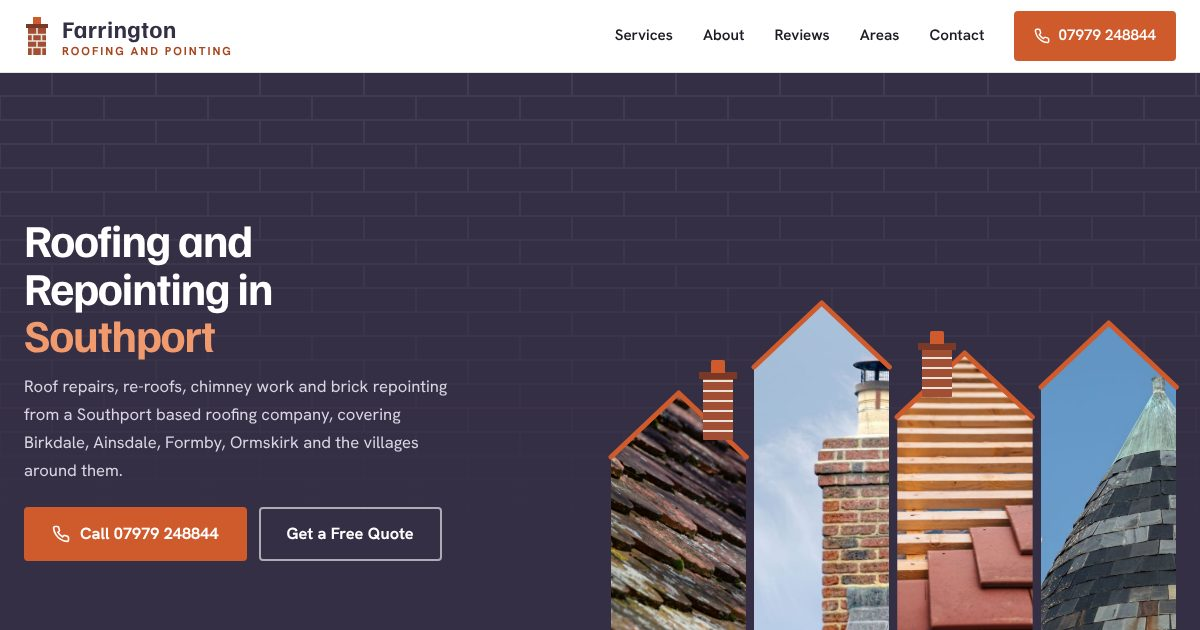
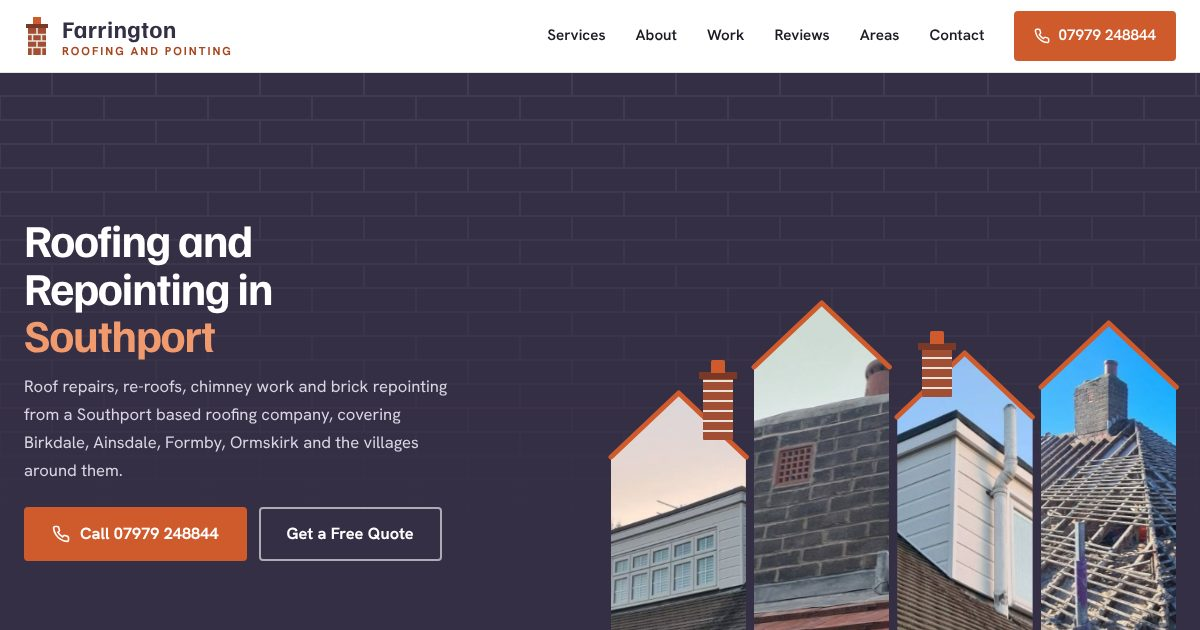
Farrington Roofing and Pointing: their own photos on A and B
Desk revision: their seven photos replace the stock in the hero, service cards and about panel on both mockups, a recent work gallery added with plain captions, the flat roof card becomes Dormers and Flat Roofs to match their dormer photos, unused stock removed.

Changed region(s): [[0.4933, 0.4825, 0.9867, 1.0], [0.4625, 0.0302, 0.555, 0.0603], [0.5858, 0.0302, 0.6167, 0.0603]]

diff --git a/farrington-roofing-pointing/index.html b/farrington-roofing-pointing/index.html
@@ -170,9 +170,19 @@ section{position:relative}
 .about h2 .acc{color:var(--clay-lt)}
 .about p{font-size:1.07rem;max-width:54ch}
 .about .btn{margin-top:28px}
-.about-ph{position:relative;aspect-ratio:3/2}
+.about-ph{position:relative;aspect-ratio:4/3;max-width:520px}
 .about-ph{--rf:22%}
 .about-ph .g-ph img{animation:none}
+
+/* gallery: their own work */
+.gal-grid{display:grid;grid-template-columns:repeat(4,1fr);gap:20px}
+.gal-grid figure{margin:0}
+.gal-ph{aspect-ratio:4/5;overflow:hidden;border-radius:6px;background:var(--stone)}
+.gal-ph img{width:100%;height:100%;object-fit:cover;transition:transform .6s ease}
+.gal-grid figure:hover .gal-ph img{transform:scale(1.04)}
+.gal-grid figcaption{margin-top:10px;font-size:.94rem;color:var(--body);line-height:1.45}
+@media (max-width:1100px){.gal-grid{grid-template-columns:repeat(3,1fr)}}
+@media (max-width:880px){.gal-grid{grid-template-columns:1fr 1fr;gap:14px}.gal-grid figcaption{font-size:.88rem}}
 
 /* areas */
 .areas-in{display:grid;grid-template-columns:.85fr 1.15fr;gap:56px;align-items:start}
@@ -320,7 +330,7 @@ footer a:hover{color:#fff}
     <nav class="nav-links" aria-label="Main">
       <a href="#services">Services</a>
       <a href="#about">About</a>
-      <a href="#reviews">Reviews</a>
+      <a href="#work">Work</a> <a href="#reviews">Reviews</a>
       <a href="#areas">Areas</a>
       <a href="#contact">Contact</a>
       <a href="#contact" class="nav-cta js-call"><svg viewBox="0 0 24 24" fill="none" stroke="currentColor" stroke-width="2.2" width="16" height="16"><path d="M22 16.9v3a2 2 0 0 1-2.2 2 19.8 19.8 0 0 1-8.6-3.1 19.5 19.5 0 0 1-6-6A19.8 19.8 0 0 1 2.1 4.2 2 2 0 0 1 4.1 2h3a2 2 0 0 1 2 1.7c.1.9.4 1.8.7 2.7a2 2 0 0 1-.5 2.1L8 9.8a16 16 0 0 0 6 6l1.3-1.3a2 2 0 0 1 2.1-.4c.9.3 1.8.6 2.7.7a2 2 0 0 1 1.7 2z"/></svg><span>Call us</span></a>
@@ -331,7 +341,7 @@ footer a:hover{color:#fff}
 <div class="mpanel" id="mpanel">
   <a href="#services">Services</a>
   <a href="#about">About</a>
-  <a href="#reviews">Reviews</a>
+  <a href="#work">Work</a> <a href="#reviews">Reviews</a>
   <a href="#areas">Areas</a>
   <a href="#contact">Contact</a>
   <a href="#contact" class="btn btn-clay js-call"><svg viewBox="0 0 24 24" fill="none" stroke="currentColor" stroke-width="2.2" width="18" height="18"><path d="M22 16.9v3a2 2 0 0 1-2.2 2 19.8 19.8 0 0 1-8.6-3.1 19.5 19.5 0 0 1-6-6A19.8 19.8 0 0 1 2.1 4.2 2 2 0 0 1 4.1 2h3a2 2 0 0 1 2 1.7c.1.9.4 1.8.7 2.7a2 2 0 0 1-.5 2.1L8 9.8a16 16 0 0 0 6 6l1.3-1.3a2 2 0 0 1 2.1-.4c.9.3 1.8.6 2.7.7a2 2 0 0 1 1.7 2z"/></svg><span>Call us</span></a>
@@ -349,10 +359,10 @@ footer a:hover{color:#fff}
       </div>
     </div>
     <div class="terrace" aria-hidden="true">
-      <div class="gable" style="--h:310px;--d:.05s"><div class="stack"></div><div class="g-ph"><img src="svc-repairs.jpg" alt="" width="1100" height="1650"></div><svg class="g-ridge" viewBox="0 0 100 100" preserveAspectRatio="none"><path pathLength="1" d="M0 100 L50 0 L100 100"/></svg></div>
-      <div class="gable" style="--h:400px;--d:.17s"><div class="g-ph"><img src="hero.jpg" alt="" width="1400" height="933" fetchpriority="high"></div><svg class="g-ridge" viewBox="0 0 100 100" preserveAspectRatio="none"><path pathLength="1" d="M0 100 L50 0 L100 100"/></svg></div>
-      <div class="gable" style="--h:350px;--d:.29s"><div class="stack s2"></div><div class="g-ph"><img src="svc-reroof.jpg" alt="" width="1100" height="1650"></div><svg class="g-ridge" viewBox="0 0 100 100" preserveAspectRatio="none"><path pathLength="1" d="M0 100 L50 0 L100 100"/></svg></div>
-      <div class="gable" style="--h:380px;--d:.41s"><div class="g-ph"><img src="gable-slate.jpg" alt="" width="1100" height="733"></div><svg class="g-ridge" viewBox="0 0 100 100" preserveAspectRatio="none"><path pathLength="1" d="M0 100 L50 0 L100 100"/></svg></div>
+      <div class="gable" style="--h:310px;--d:.05s"><div class="stack"></div><div class="g-ph"><img src="own-dorma3.jpg" alt="" width="398" height="442"></div><svg class="g-ridge" viewBox="0 0 100 100" preserveAspectRatio="none"><path pathLength="1" d="M0 100 L50 0 L100 100"/></svg></div>
+      <div class="gable" style="--h:400px;--d:.17s"><div class="g-ph"><img src="own-roof3.jpg" alt="" width="408" height="471" fetchpriority="high"></div><svg class="g-ridge" viewBox="0 0 100 100" preserveAspectRatio="none"><path pathLength="1" d="M0 100 L50 0 L100 100"/></svg></div>
+      <div class="gable" style="--h:350px;--d:.29s"><div class="stack s2"></div><div class="g-ph"><img src="own-dorma4.jpg" alt="" width="402" height="467"></div><svg class="g-ridge" viewBox="0 0 100 100" preserveAspectRatio="none"><path pathLength="1" d="M0 100 L50 0 L100 100"/></svg></div>
+      <div class="gable" style="--h:380px;--d:.41s"><div class="g-ph"><img src="own-roof1.jpg" alt="" width="338" height="520"></div><svg class="g-ridge" viewBox="0 0 100 100" preserveAspectRatio="none"><path pathLength="1" d="M0 100 L50 0 L100 100"/></svg></div>
     </div>
   </div>
 </section>
@@ -373,23 +383,39 @@ footer a:hover{color:#fff}
     <span class="mrule reveal" aria-hidden="true"></span>
     <div class="svc-grid">
       <article class="svc reveal"><div class="svc-img"><img src="svc-repairs.jpg" alt="Weathered slates on an older roof" loading="lazy" width="1100" height="1650"></div><div class="svc-body"><h3>Roof Repairs</h3><p>Slipped slates, cracked tiles and leaks traced and fixed.</p></div></article>
-      <article class="svc reveal"><div class="svc-img"><img src="svc-reroof.jpg" alt="New clay tiles being laid on timber battens" loading="lazy" width="1100" height="1650"></div><div class="svc-body"><h3>Re-roofs</h3><p>Stripped back, new membrane and battens, slate or tile.</p></div></article>
+      <article class="svc reveal"><div class="svc-img"><img src="own-roof2.jpg" alt="Red tiled roof finished above a brick house" loading="lazy" width="412" height="498"></div><div class="svc-body"><h3>Re-roofs</h3><p>Stripped back, new membrane and battens, slate or tile.</p></div></article>
       <article class="svc reveal"><div class="svc-img"><img src="svc-pointing.jpg" alt="Trowel pressing fresh mortar into raked brick joints" loading="lazy" width="549" height="364"></div><div class="svc-body"><h3>Brick Repointing</h3><p>Old joints raked out, fresh mortar matched to the brick.</p></div></article>
-      <article class="svc reveal"><div class="svc-img"><img src="svc-chimney.jpg" alt="Brick chimney stack on a slate roof" loading="lazy" width="1100" height="1649"></div><div class="svc-body"><h3>Chimney Repairs</h3><p>Stacks repointed or rebuilt, flaunching, pots and flashing renewed.</p></div></article>
-      <article class="svc reveal"><div class="svc-img"><img src="svc-flat.jpg" alt="House extension with a flat roof and dark fascia" loading="lazy" width="1200" height="797"></div><div class="svc-body"><h3>Flat Roofing</h3><p>Extensions, garages and dormers, felt, rubber or fibreglass.</p></div></article>
-      <article class="svc reveal"><div class="svc-img"><img src="svc-gutter.jpg" alt="White gutter end with water dripping" loading="lazy" width="1100" height="1654"></div><div class="svc-body"><h3>Gutters and Fascias</h3><p>Gutters cleared, realigned or replaced, fascias and soffits fitted.</p></div></article>
+      <article class="svc reveal"><div class="svc-img"><img src="own-roof3.jpg" alt="Brick chimney stack with lead flashing on a tiled roof" loading="lazy" width="408" height="471"></div><div class="svc-body"><h3>Chimney Repairs</h3><p>Stacks repointed or rebuilt, flaunching, pots and flashing renewed.</p></div></article>
+      <article class="svc reveal"><div class="svc-img"><img src="own-dorma3.jpg" alt="White clad dormer on a tiled roof" loading="lazy" width="398" height="442"></div><div class="svc-body"><h3>Dormers and Flat Roofs</h3><p>Dormers clad and roofed, flat roofs in felt, rubber or fibreglass.</p></div></article>
+      <article class="svc reveal"><div class="svc-img"><img src="own-dorma4.jpg" alt="Dormer with gutter and white downpipe" loading="lazy" width="402" height="467"></div><div class="svc-body"><h3>Gutters and Fascias</h3><p>Gutters cleared, realigned or replaced, fascias and soffits fitted.</p></div></article>
     </div>
   </div>
 </section>
 
 <section class="sec about" id="about">
   <div class="wrap about-in">
-    <div class="about-ph reveal" aria-hidden="true"><div class="g-ph"><img src="gable-slate.jpg" alt="" loading="lazy" width="1100" height="733"></div></div>
+    <div class="about-ph reveal" aria-hidden="true"><div class="g-ph"><img src="own-dorma1.jpg" alt="" loading="lazy" width="408" height="557"></div></div>
     <div class="reveal">
       <h2>About <span class="acc">Farrington</span></h2>
       <span class="mrule" aria-hidden="true"></span>
       <p>Farrington Roofing and Pointing Services is a Southport company working on the roofs and brickwork of homes across the town and the villages around it. Slipped slates, leaking flat roofs, tired chimney stacks, crumbling pointing and full re-roofs, each one priced after a visit and explained in plain terms.</p>
       <a href="#contact" class="btn btn-clay js-call"><svg viewBox="0 0 24 24" fill="none" stroke="currentColor" stroke-width="2.2" width="18" height="18"><path d="M22 16.9v3a2 2 0 0 1-2.2 2 19.8 19.8 0 0 1-8.6-3.1 19.5 19.5 0 0 1-6-6A19.8 19.8 0 0 1 2.1 4.2 2 2 0 0 1 4.1 2h3a2 2 0 0 1 2 1.7c.1.9.4 1.8.7 2.7a2 2 0 0 1-.5 2.1L8 9.8a16 16 0 0 0 6 6l1.3-1.3a2 2 0 0 1 2.1-.4c.9.3 1.8.6 2.7.7a2 2 0 0 1 1.7 2z"/></svg><span>Call us</span></a>
+    </div>
+  </div>
+</section>
+
+<section class="sec gallery" id="work">
+  <div class="wrap">
+    <h2 class="reveal">Recent <span class="acc">work</span></h2>
+    <span class="mrule reveal" aria-hidden="true"></span>
+    <div class="gal-grid">
+      <figure class="reveal"><div class="gal-ph"><img src="own-roof1.jpg" alt="Hipped roof stripped back to the rafters with two chimney stacks" loading="lazy" width="338" height="520"></div><figcaption>Hipped roof stripped back, old tiles off</figcaption></figure>
+      <figure class="reveal"><div class="gal-ph"><img src="own-roof2.jpg" alt="Red tiled roof finished above a brick house with scaffold still up" loading="lazy" width="412" height="498"></div><figcaption>Red tiled roof finished, scaffold still up</figcaption></figure>
+      <figure class="reveal"><div class="gal-ph"><img src="own-roof3.jpg" alt="Brick chimney stack with lead flashing on a red tiled roof" loading="lazy" width="408" height="471"></div><figcaption>Chimney stack with lead flashing</figcaption></figure>
+      <figure class="reveal"><div class="gal-ph"><img src="own-dorma2.jpg" alt="Dormer cheek wrapped in black membrane beside a tiled roof" loading="lazy" width="372" height="572"></div><figcaption>Dormer cheek wrapped in membrane</figcaption></figure>
+      <figure class="reveal"><div class="gal-ph"><img src="own-dorma1.jpg" alt="Dormer with dark timber cladding and white windows seen from the scaffold" loading="lazy" width="408" height="557"></div><figcaption>Dormer with dark cladding and white windows</figcaption></figure>
+      <figure class="reveal"><div class="gal-ph"><img src="own-dorma3.jpg" alt="White clad dormer with a long window on a tiled roof at dusk" loading="lazy" width="398" height="442"></div><figcaption>White clad dormer on a tiled roof</figcaption></figure>
+      <figure class="reveal"><div class="gal-ph"><img src="own-dorma4.jpg" alt="White clad dormer with a gutter and downpipe" loading="lazy" width="402" height="467"></div><figcaption>White clad dormer, gutter and downpipe</figcaption></figure>
     </div>
   </div>
 </section>

diff --git a/farrington-roofing-pointing-b/index.html b/farrington-roofing-pointing-b/index.html
@@ -109,8 +109,11 @@ section{position:relative}
 /* hero B: full bleed ken burns */
 .hero{position:relative;display:flex;flex-direction:column;justify-content:flex-end;min-height:calc(100svh - var(--nav-h));max-height:900px;background:var(--slate);overflow:hidden;color:#fff}
 .hb-img{position:absolute;inset:0;overflow:hidden}
-.hb-img img{width:100%;height:100%;object-fit:cover;object-position:50% 40%;transform-origin:60% 40%;animation:kbB 22s ease-in-out infinite alternate}
-@keyframes kbB{from{transform:scale(1.04) translate(0,0)}to{transform:scale(1.12) translate(-2%,1.5%)}}
+.hb-img{display:flex}
+.hb-img img{flex:1 1 0;min-width:0;width:100%;height:100%;object-fit:cover;object-position:50% 40%;transform-origin:50% 40%;animation:kbB 22s ease-in-out infinite alternate}
+.hb-img img:nth-child(2){animation-delay:-6s}.hb-img img:nth-child(3){animation-delay:-11s}.hb-img img:nth-child(4){animation-delay:-16s}
+@media (max-width:880px){.hb-img img:not(:first-child){display:none}}
+@keyframes kbB{from{transform:scale(1.02) translate(0,0)}to{transform:scale(1.1) translate(-2%,1.5%)}}
 .hb-shade{position:absolute;inset:0;background:linear-gradient(180deg,rgba(53,47,69,.15) 0%,rgba(53,47,69,.2) 30%,rgba(43,38,57,.82) 62%,rgba(35,31,46,.96) 100%)}
 .hb-in{position:relative;width:100%;padding-top:120px;padding-bottom:96px}
 .hero h1{color:#fff;font-size:clamp(3rem,7vw,6.4rem);max-width:11ch;line-height:.98;letter-spacing:-.035em}
@@ -189,9 +192,19 @@ section{position:relative}
 .about h2 .acc{color:var(--clay-lt)}
 .about p{font-size:1.07rem;max-width:54ch}
 .about .btn{margin-top:28px}
-.about-ph{position:relative;aspect-ratio:3/2}
+.about-ph{position:relative;aspect-ratio:4/3;max-width:520px}
 .about-ph{--rf:22%}
 .about-ph .g-ph img{animation:none}
+
+/* gallery: their own work */
+.gal-grid{display:grid;grid-template-columns:repeat(4,1fr);gap:20px}
+.gal-grid figure{margin:0}
+.gal-ph{aspect-ratio:4/5;overflow:hidden;border-radius:6px;background:var(--stone)}
+.gal-ph img{width:100%;height:100%;object-fit:cover;transition:transform .6s ease}
+.gal-grid figure:hover .gal-ph img{transform:scale(1.04)}
+.gal-grid figcaption{margin-top:10px;font-size:.94rem;color:var(--body);line-height:1.45}
+@media (max-width:1100px){.gal-grid{grid-template-columns:repeat(3,1fr)}}
+@media (max-width:880px){.gal-grid{grid-template-columns:1fr 1fr;gap:14px}.gal-grid figcaption{font-size:.88rem}}
 
 /* areas */
 .areas-in{display:grid;grid-template-columns:.85fr 1.15fr;gap:56px;align-items:start}
@@ -335,7 +348,7 @@ footer a:hover{color:#fff}
     <nav class="nav-links" aria-label="Main">
       <a href="#services">Services</a>
       <a href="#about">About</a>
-      <a href="#reviews">Reviews</a>
+      <a href="#work">Work</a> <a href="#reviews">Reviews</a>
       <a href="#areas">Areas</a>
       <a href="#contact">Contact</a>
       <a href="#contact" class="nav-cta js-call"><svg viewBox="0 0 24 24" fill="none" stroke="currentColor" stroke-width="2.2" width="16" height="16"><path d="M22 16.9v3a2 2 0 0 1-2.2 2 19.8 19.8 0 0 1-8.6-3.1 19.5 19.5 0 0 1-6-6A19.8 19.8 0 0 1 2.1 4.2 2 2 0 0 1 4.1 2h3a2 2 0 0 1 2 1.7c.1.9.4 1.8.7 2.7a2 2 0 0 1-.5 2.1L8 9.8a16 16 0 0 0 6 6l1.3-1.3a2 2 0 0 1 2.1-.4c.9.3 1.8.6 2.7.7a2 2 0 0 1 1.7 2z"/></svg><span>Call us</span></a>
@@ -346,7 +359,7 @@ footer a:hover{color:#fff}
 <div class="mpanel" id="mpanel">
   <a href="#services">Services</a>
   <a href="#about">About</a>
-  <a href="#reviews">Reviews</a>
+  <a href="#work">Work</a> <a href="#reviews">Reviews</a>
   <a href="#areas">Areas</a>
   <a href="#contact">Contact</a>
   <a href="#contact" class="btn btn-clay js-call"><svg viewBox="0 0 24 24" fill="none" stroke="currentColor" stroke-width="2.2" width="18" height="18"><path d="M22 16.9v3a2 2 0 0 1-2.2 2 19.8 19.8 0 0 1-8.6-3.1 19.5 19.5 0 0 1-6-6A19.8 19.8 0 0 1 2.1 4.2 2 2 0 0 1 4.1 2h3a2 2 0 0 1 2 1.7c.1.9.4 1.8.7 2.7a2 2 0 0 1-.5 2.1L8 9.8a16 16 0 0 0 6 6l1.3-1.3a2 2 0 0 1 2.1-.4c.9.3 1.8.6 2.7.7a2 2 0 0 1 1.7 2z"/></svg><span>Call us</span></a>
@@ -354,7 +367,7 @@ footer a:hover{color:#fff}
 
 <main id="top">
 <section class="hero" id="hero">
-  <div class="hb-img"><img src="hero.jpg" alt="Two brick chimney stacks on a slate roof against a blue sky" width="1400" height="933" fetchpriority="high"></div>
+  <div class="hb-img"><img src="own-roof3.jpg" alt="Brick chimney stack with lead flashing on a red tiled roof" width="408" height="471" fetchpriority="high"><img src="own-dorma3.jpg" alt="" width="398" height="442"><img src="own-roof1.jpg" alt="" width="338" height="520"><img src="own-dorma4.jpg" alt="" width="402" height="467"></div>
   <div class="hb-shade"></div>
   <div class="wrap hb-in">
     <h1 id="hH1">Roofing and Repointing in <span class="acc">Southport</span></h1>
@@ -430,11 +443,11 @@ footer a:hover{color:#fff}
     <span class="mrule reveal" aria-hidden="true"></span>
     <div class="svc-grid">
       <article class="svc reveal"><div class="svc-img"><img src="svc-repairs.jpg" alt="Weathered slates on an older roof" loading="lazy" width="1100" height="1650"></div><div class="svc-body"><h3>Roof Repairs</h3><p>Slipped slates, cracked tiles and leaks traced and fixed.</p></div></article>
-      <article class="svc reveal"><div class="svc-img"><img src="svc-reroof.jpg" alt="New clay tiles being laid on timber battens" loading="lazy" width="1100" height="1650"></div><div class="svc-body"><h3>Re-roofs</h3><p>Stripped back, new membrane and battens, slate or tile.</p></div></article>
+      <article class="svc reveal"><div class="svc-img"><img src="own-roof2.jpg" alt="Red tiled roof finished above a brick house" loading="lazy" width="412" height="498"></div><div class="svc-body"><h3>Re-roofs</h3><p>Stripped back, new membrane and battens, slate or tile.</p></div></article>
       <article class="svc reveal"><div class="svc-img"><img src="svc-pointing.jpg" alt="Trowel pressing fresh mortar into raked brick joints" loading="lazy" width="549" height="364"></div><div class="svc-body"><h3>Brick Repointing</h3><p>Old joints raked out, fresh mortar matched to the brick.</p></div></article>
-      <article class="svc reveal"><div class="svc-img"><img src="svc-chimney.jpg" alt="Brick chimney stack on a slate roof" loading="lazy" width="1100" height="1649"></div><div class="svc-body"><h3>Chimney Repairs</h3><p>Stacks repointed or rebuilt, flaunching, pots and flashing renewed.</p></div></article>
-      <article class="svc reveal"><div class="svc-img"><img src="svc-flat.jpg" alt="House extension with a flat roof and dark fascia" loading="lazy" width="1200" height="797"></div><div class="svc-body"><h3>Flat Roofing</h3><p>Extensions, garages and dormers, felt, rubber or fibreglass.</p></div></article>
-      <article class="svc reveal"><div class="svc-img"><img src="svc-gutter.jpg" alt="White gutter end with water dripping" loading="lazy" width="1100" height="1654"></div><div class="svc-body"><h3>Gutters and Fascias</h3><p>Gutters cleared, realigned or replaced, fascias and soffits fitted.</p></div></article>
+      <article class="svc reveal"><div class="svc-img"><img src="own-roof3.jpg" alt="Brick chimney stack with lead flashing on a tiled roof" loading="lazy" width="408" height="471"></div><div class="svc-body"><h3>Chimney Repairs</h3><p>Stacks repointed or rebuilt, flaunching, pots and flashing renewed.</p></div></article>
+      <article class="svc reveal"><div class="svc-img"><img src="own-dorma3.jpg" alt="White clad dormer on a tiled roof" loading="lazy" width="398" height="442"></div><div class="svc-body"><h3>Dormers and Flat Roofs</h3><p>Dormers clad and roofed, flat roofs in felt, rubber or fibreglass.</p></div></article>
+      <article class="svc reveal"><div class="svc-img"><img src="own-dorma4.jpg" alt="Dormer with gutter and white downpipe" loading="lazy" width="402" height="467"></div><div class="svc-body"><h3>Gutters and Fascias</h3><p>Gutters cleared, realigned or replaced, fascias and soffits fitted.</p></div></article>
     </div>
   </div>
 </section>
@@ -463,12 +476,28 @@ footer a:hover{color:#fff}
 
 <section class="sec about" id="about">
   <div class="wrap about-in">
-    <div class="about-ph reveal" aria-hidden="true"><div class="g-ph"><img src="gable-slate.jpg" alt="" loading="lazy" width="1100" height="733"></div></div>
+    <div class="about-ph reveal" aria-hidden="true"><div class="g-ph"><img src="own-dorma1.jpg" alt="" loading="lazy" width="408" height="557"></div></div>
     <div class="reveal">
       <h2>About <span class="acc">Farrington</span></h2>
       <span class="mrule" aria-hidden="true"></span>
       <p>Farrington Roofing and Pointing Services is a Southport company working on the roofs and brickwork of homes across the town and the villages around it. Slipped slates, leaking flat roofs, tired chimney stacks, crumbling pointing and full re-roofs, each one priced after a visit and explained in plain terms.</p>
       <a href="#contact" class="btn btn-clay js-call"><svg viewBox="0 0 24 24" fill="none" stroke="currentColor" stroke-width="2.2" width="18" height="18"><path d="M22 16.9v3a2 2 0 0 1-2.2 2 19.8 19.8 0 0 1-8.6-3.1 19.5 19.5 0 0 1-6-6A19.8 19.8 0 0 1 2.1 4.2 2 2 0 0 1 4.1 2h3a2 2 0 0 1 2 1.7c.1.9.4 1.8.7 2.7a2 2 0 0 1-.5 2.1L8 9.8a16 16 0 0 0 6 6l1.3-1.3a2 2 0 0 1 2.1-.4c.9.3 1.8.6 2.7.7a2 2 0 0 1 1.7 2z"/></svg><span>Call us</span></a>
+    </div>
+  </div>
+</section>
+
+<section class="sec gallery" id="work">
+  <div class="wrap">
+    <h2 class="reveal">Recent <span class="acc">work</span></h2>
+    <span class="mrule reveal" aria-hidden="true"></span>
+    <div class="gal-grid">
+      <figure class="reveal"><div class="gal-ph"><img src="own-roof1.jpg" alt="Hipped roof stripped back to the rafters with two chimney stacks" loading="lazy" width="338" height="520"></div><figcaption>Hipped roof stripped back, old tiles off</figcaption></figure>
+      <figure class="reveal"><div class="gal-ph"><img src="own-roof2.jpg" alt="Red tiled roof finished above a brick house with scaffold still up" loading="lazy" width="412" height="498"></div><figcaption>Red tiled roof finished, scaffold still up</figcaption></figure>
+      <figure class="reveal"><div class="gal-ph"><img src="own-roof3.jpg" alt="Brick chimney stack with lead flashing on a red tiled roof" loading="lazy" width="408" height="471"></div><figcaption>Chimney stack with lead flashing</figcaption></figure>
+      <figure class="reveal"><div class="gal-ph"><img src="own-dorma2.jpg" alt="Dormer cheek wrapped in black membrane beside a tiled roof" loading="lazy" width="372" height="572"></div><figcaption>Dormer cheek wrapped in membrane</figcaption></figure>
+      <figure class="reveal"><div class="gal-ph"><img src="own-dorma1.jpg" alt="Dormer with dark timber cladding and white windows seen from the scaffold" loading="lazy" width="408" height="557"></div><figcaption>Dormer with dark cladding and white windows</figcaption></figure>
+      <figure class="reveal"><div class="gal-ph"><img src="own-dorma3.jpg" alt="White clad dormer with a long window on a tiled roof at dusk" loading="lazy" width="398" height="442"></div><figcaption>White clad dormer on a tiled roof</figcaption></figure>
+      <figure class="reveal"><div class="gal-ph"><img src="own-dorma4.jpg" alt="White clad dormer with a gutter and downpipe" loading="lazy" width="402" height="467"></div><figcaption>White clad dormer, gutter and downpipe</figcaption></figure>
     </div>
   </div>
 </section>
